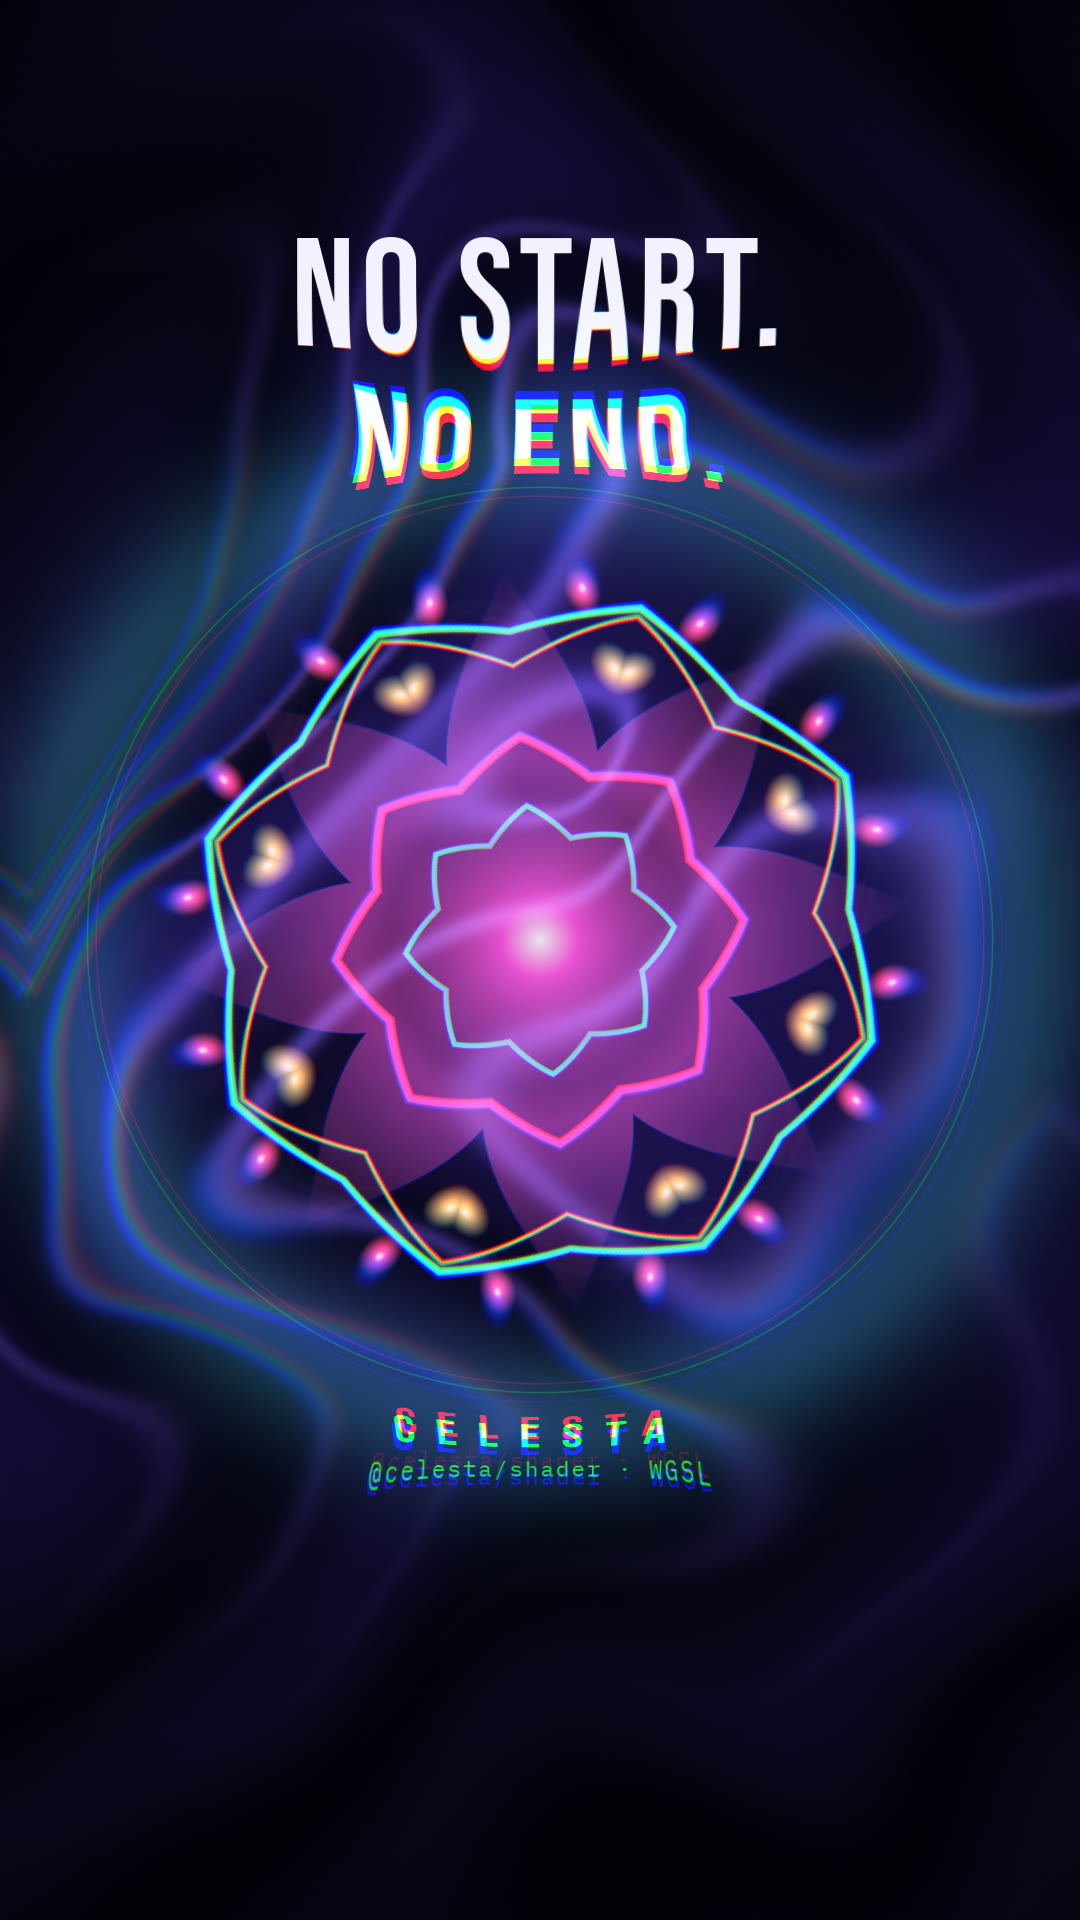
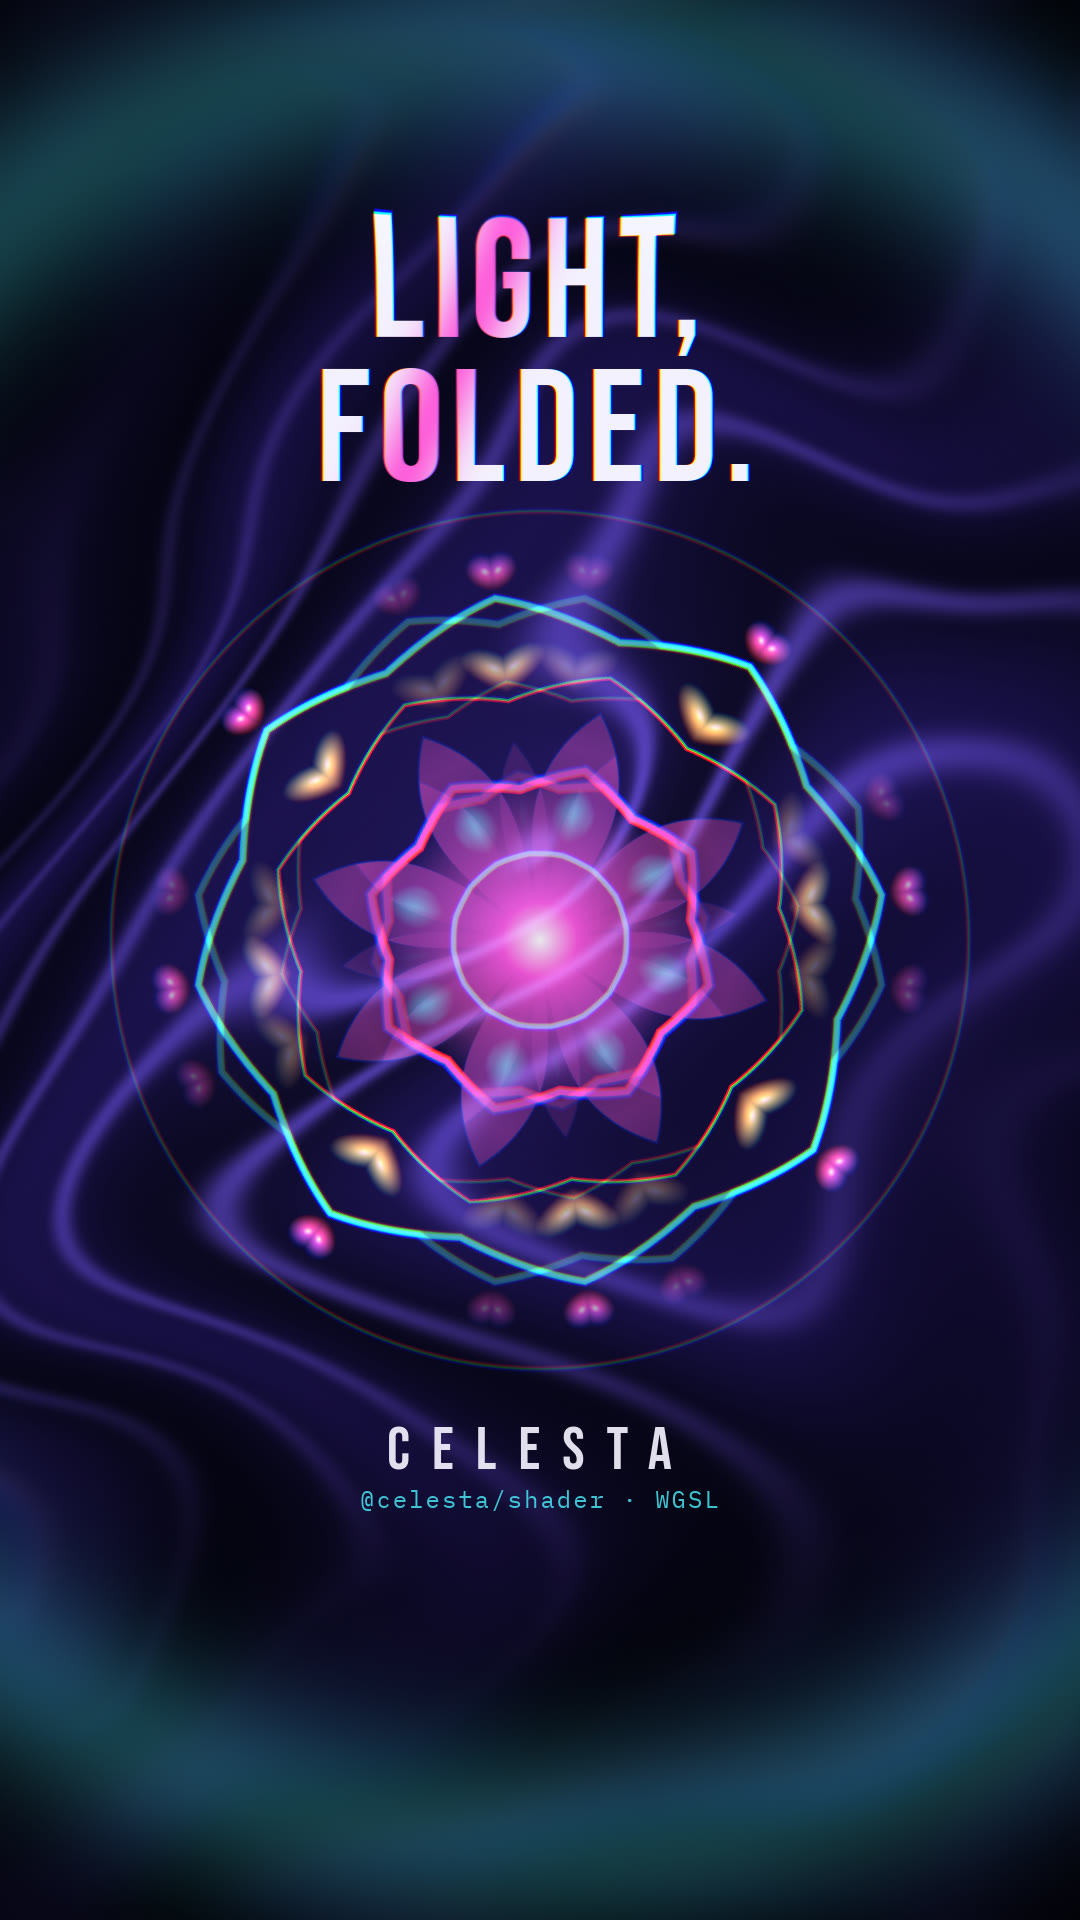
feat(examples): give shorts-loop shader-made copy
"NO START. NO END." described the trick rather than the picture. The copy
now reads "LIGHT, FOLDED.", which names what kaleido and lens do, and a
fourth shader, sheen, runs a band of magenta light across it once a bar
and splits its red and blue on each beat. The band starts and ends clear
of the letters, so its restart at every bar line, the loop point
included, is unseen.

diff --git a/examples/shorts-loop/components/Copy.tsx b/examples/shorts-loop/components/Copy.tsx
@@ -1,10 +1,13 @@
-import { Text } from '@celesta/react';
-import { CYAN, SAFE, W, WHITE } from '../constants';
+import { Group, Text } from '@celesta/react';
+import { BAR, CYAN, MAGENTA, SAFE, W, WHITE } from '../constants';
+import { within } from '../loop';
+import { sheen } from '../shaders';
 
-// The only words: a line that reads the same from any point in the loop, and
-// the mark. Centred and narrow, they keep clear of the platforms' UI (SAFE)
-// while the picture fills the frame. They never move, so their rasters are
-// made once; the lens ring still bends them as it passes.
+// The only words: a line that names what the picture does, and the mark.
+// Centred and narrow, they keep clear of the platforms' UI (SAFE) while the
+// picture fills the frame. The letters never move, so their rasters are made
+// once; `sheen` runs light across the line once a bar, and the lens ring
+// bends everything as it passes.
 
 function Type({ children, y, size, color, mono = false, spacing = 0, opacity = 1 }: {
   children: string; y: number; size: number; color: string; mono?: boolean; spacing?: number; opacity?: number;
@@ -15,10 +18,14 @@ function Type({ children, y, size, color, mono = false, spacing = 0, opacity = 1
   }}>{children}</Text>;
 }
 
-export function Copy() {
+export function Copy({ frame, pulse }: { frame: number; pulse: number }) {
+  // The band starts and ends clear of the letters, so its restart each bar is unseen.
+  const sweep = -0.35 + 1.9 * within(frame, BAR);
   return <>
-    <Type y={SAFE.top + 110} size={150} color={WHITE} spacing={6}>NO START.</Type>
-    <Type y={SAFE.top + 240} size={150} color={WHITE} spacing={6}>NO END.</Type>
+    <Group shader={sheen({ sweep, split: 1 + 4 * pulse, tint: MAGENTA })}>
+      <Type y={SAFE.top + 110} size={160} color={WHITE} spacing={8}>LIGHT,</Type>
+      <Type y={SAFE.top + 245} size={160} color={WHITE} spacing={8}>FOLDED.</Type>
+    </Group>
     <Type y={SAFE.bottom - 88} size={60} color={WHITE} spacing={22} opacity={0.92}>CELESTA</Type>
     <Type y={SAFE.bottom - 36} size={24} color={CYAN} mono spacing={2} opacity={0.8}>@celesta/shader · WGSL</Type>
   </>;

diff --git a/examples/shorts-loop/shaders/index.ts b/examples/shorts-loop/shaders/index.ts
@@ -1,9 +1,10 @@
 import { defineShader } from '@celesta/shader';
 import kaleidoSource from './kaleido.wgsl';
 import lensSource from './lens.wgsl';
+import sheenSource from './sheen.wgsl';
 import silkSource from './silk.wgsl';
 
-// The three WGSL filters. None reads a clock of its own: each use passes the
+// The four WGSL filters. None reads a clock of its own: each use passes the
 // loop's angle or values derived from it (see ../loop.ts).
 
 /** The background, computed per pixel. `focus` is in scene widths from the centre. */
@@ -34,6 +35,18 @@ export const kaleido = defineShader({
     split: { type: 'f32', default: 0 },
   },
   padding: 32,
+});
+
+/** A band of light across text, with a horizontal RGB split of `split` pixels. */
+export const sheen = defineShader({
+  name: 'sheen',
+  wgsl: sheenSource,
+  params: {
+    sweep: 'f32',
+    split: 'f32',
+    tint: 'color',
+  },
+  padding: 8,
 });
 
 /** A refracting ring; `strength` is how far, in pixels, it moves what it crosses. */

diff --git a/examples/shorts-loop/film.tsx b/examples/shorts-loop/film.tsx
@@ -8,7 +8,7 @@ import { Loop } from './scenes/Loop';
 //
 //   scenes/        Loop, the one scene
 //   components/    Field (background), Bloom (kaleidoscope), Gem, Copy (text)
-//   shaders/       the three WGSL filters and their definitions
+//   shaders/       the four WGSL filters and their definitions
 //   loop.ts        clocks that repeat every loop, beat, or bar
 //   constants.ts   canvas, tempo, palette, safe area
 

diff --git a/examples/shorts-loop/scenes/Loop.tsx b/examples/shorts-loop/scenes/Loop.tsx
@@ -22,6 +22,6 @@ export function Loop() {
   return <Group shader={lens({ center: [CX, CY], radius, width: 60 + 100 * p, strength, tint: CYAN })}>
     <Field frame={frame} pulse={pulse} />
     <Bloom frame={frame} pulse={pulse} />
-    <Copy />
+    <Copy frame={frame} pulse={pulse} />
   </Group>;
 }

diff --git a/examples/shorts-loop/README.md b/examples/shorts-loop/README.md
@@ -2,10 +2,11 @@
 
 A 12.8-second vertical loop for YouTube Shorts and TikTok, made to be watched
 on repeat: the last frame runs into the first, picture and sound alike, so
-the player's restart is invisible. Three custom WGSL shaders from
+the player's restart is invisible. Four custom WGSL shaders from
 `@celesta/shader` do the work. `silk` computes the whole background per
 pixel, `kaleido` folds a group of plain Celesta shapes into a kaleidoscope,
-and `lens` sends a refracting ring across the finished frame on every bar.
+`sheen` runs a band of light across the copy, and `lens` sends a refracting
+ring across the finished frame on every bar.
 1080 × 1920 / 30 fps / 12.8 s.
 
 The composition is `film.tsx` (the one scene in `scenes/`, its pieces in
@@ -53,7 +54,7 @@ License).
 
 The picture fills the whole frame. Only the words keep clear of the
 platforms' UI: nothing to read sits in the bottom fifth (from y = 1536), near
-the right edge, or under the top tabs. The copy, "NO START. NO END.", reads
-the same from wherever a viewer joins the loop. The frame is already at full
-strength on frame 0, and the first ring crosses the copy within the first
-second.
+the right edge, or under the top tabs. The copy, "LIGHT, FOLDED.", names what
+the shaders do, so it reads the same from wherever a viewer joins the loop.
+The frame is already at full strength on frame 0, and the first ring crosses
+the copy within the first second.
